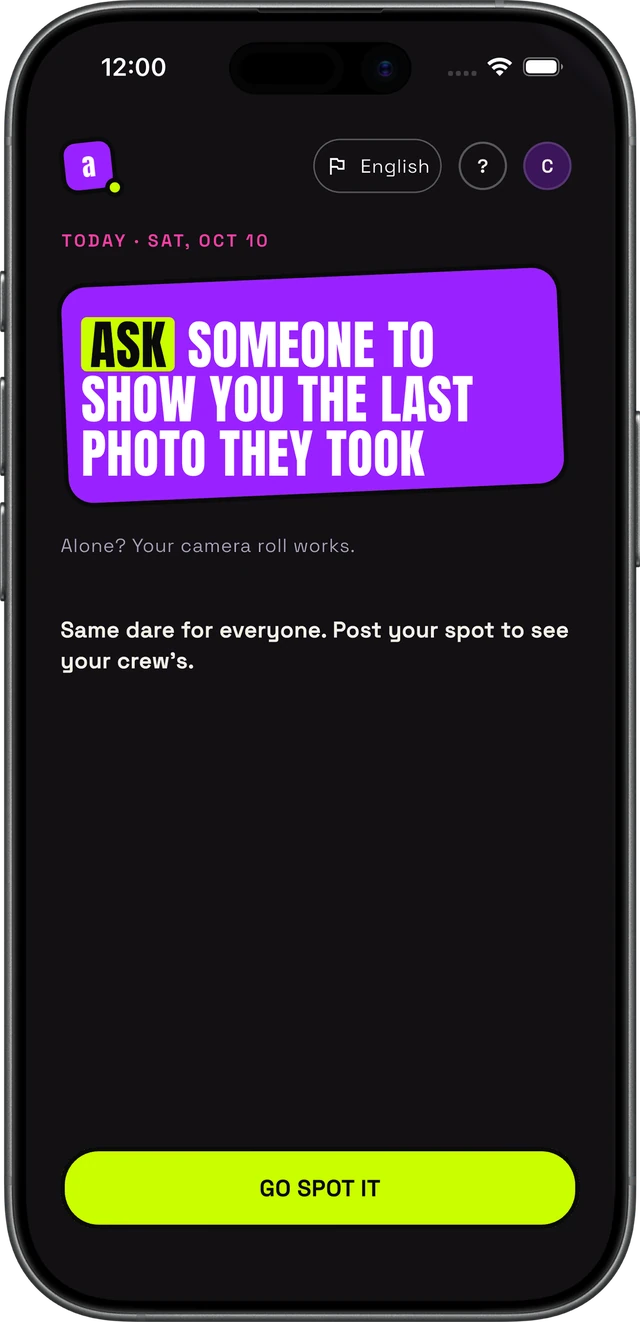
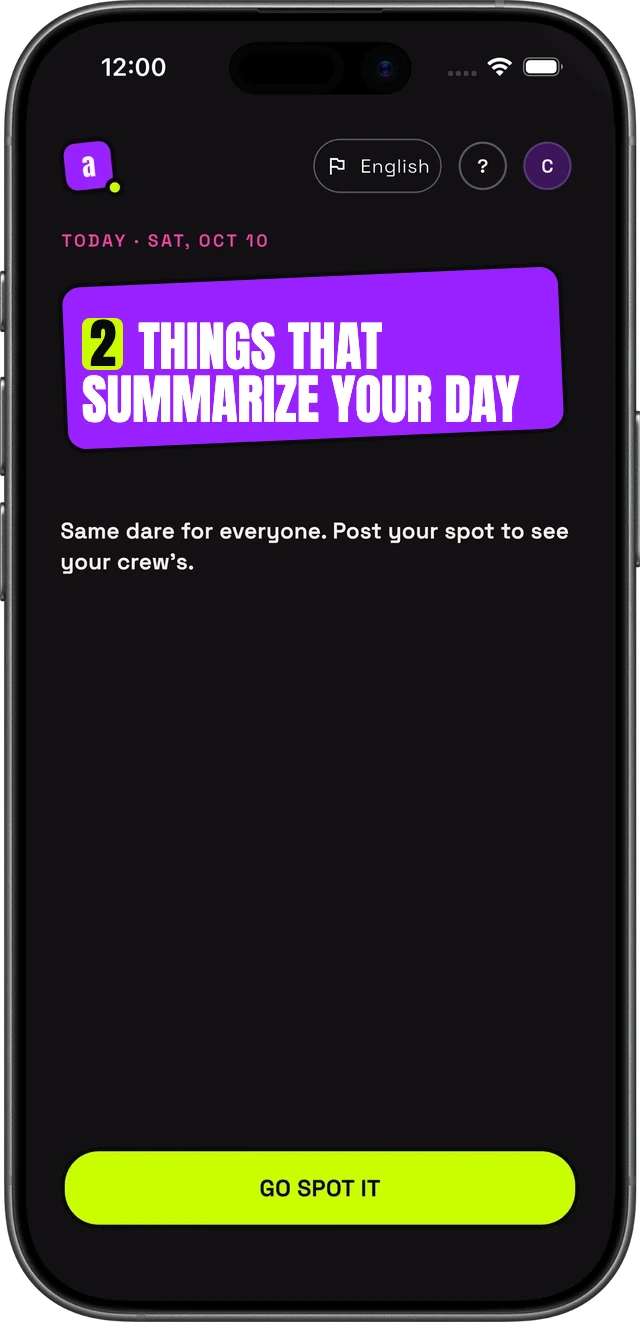
Use the real SpotA screens, turn the card phone in 3D, set the page phones space-around

diff --git a/src/components/SpotaFeature.tsx b/src/components/SpotaFeature.tsx
@@ -103,7 +103,7 @@ export function SpotaFeature() {
         .spota-feature .spota-btn { pointer-events: auto; }
         .spota-feature .spota-fine-print { font-size: 12.5px; color: var(--spota-text-2); }
         .spota-feature-stage { display: flex; align-items: center; justify-content: center; padding: 12px; }
-        .spota-feature .spota-phone { width: min(300px, 66vw); }
+        .spota-feature .spota-phone { width: min(272px, 66vw); }
       `}</style>
     </div>
   );

diff --git a/src/components/SpotaContent.tsx b/src/components/SpotaContent.tsx
@@ -270,8 +270,8 @@ export function SpotaContent() {
         .spota-fine-print { font-size: 12.5px; color: var(--spota-text-2); }
 
         .spota-stage {
-          margin: 46px 0 8px; display: flex; justify-content: center;
-          align-items: center; gap: 4%;
+          margin: 46px 0 8px; display: flex; justify-content: space-around;
+          align-items: center;
         }
         .spota-stage .spota-phone { width: 40%; max-width: 270px; }
 
